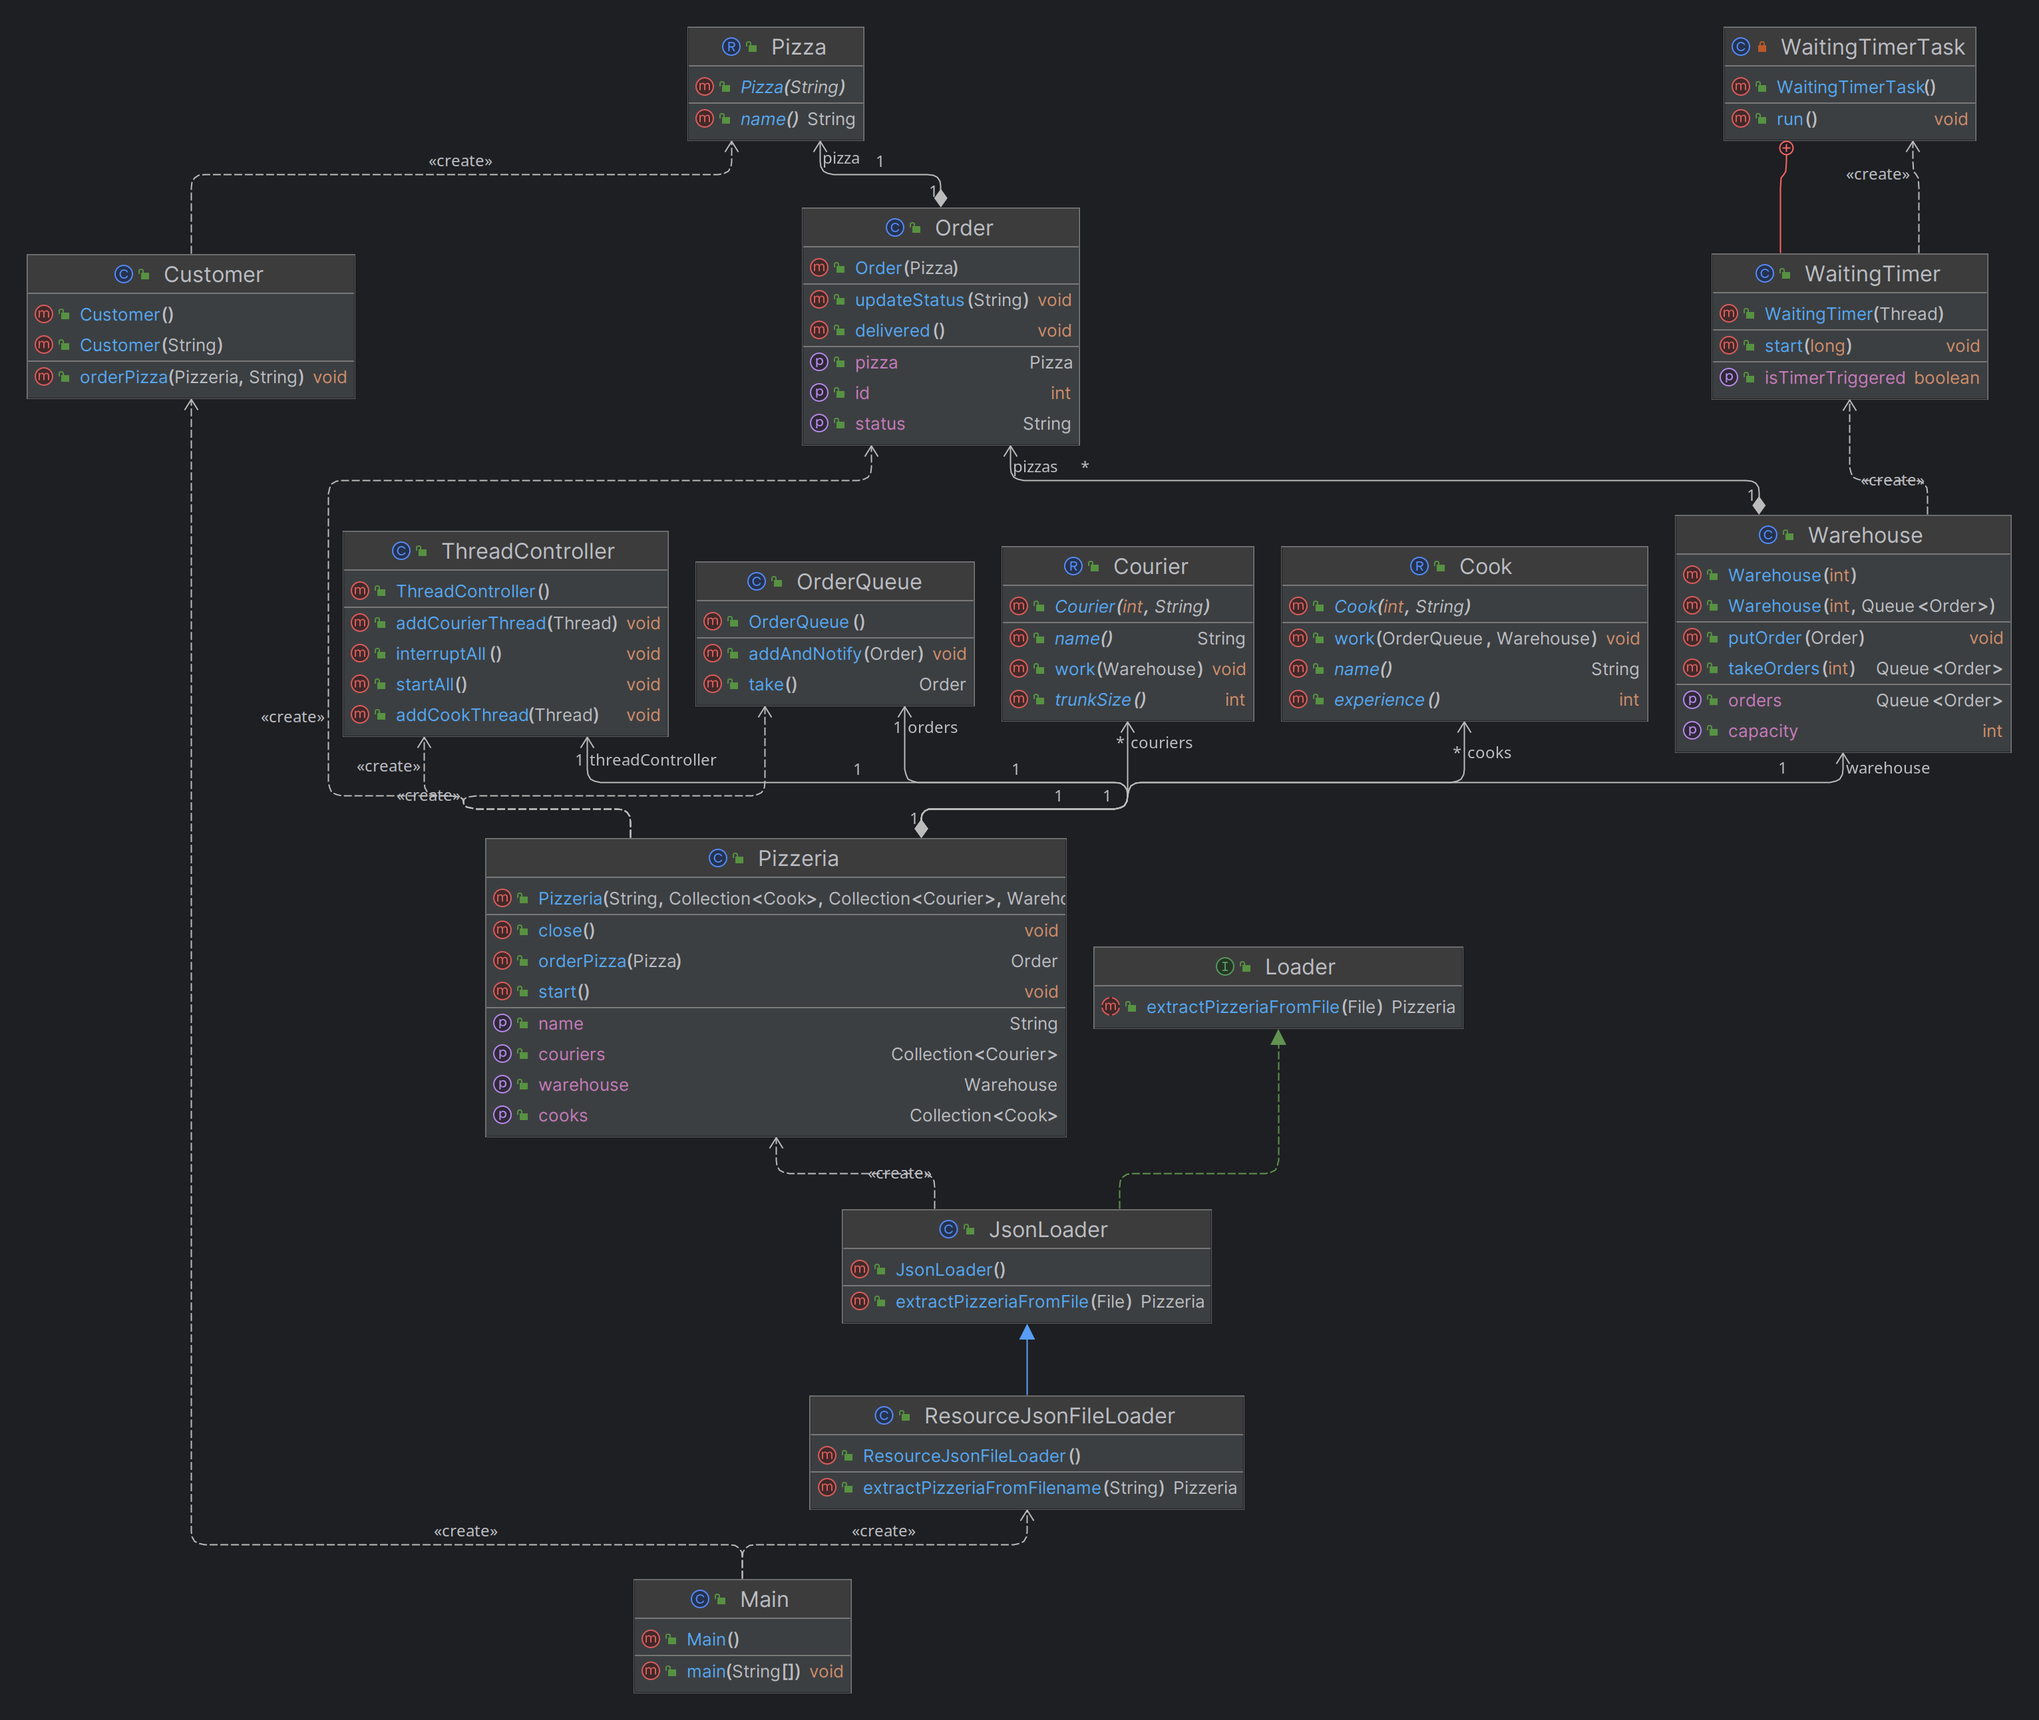
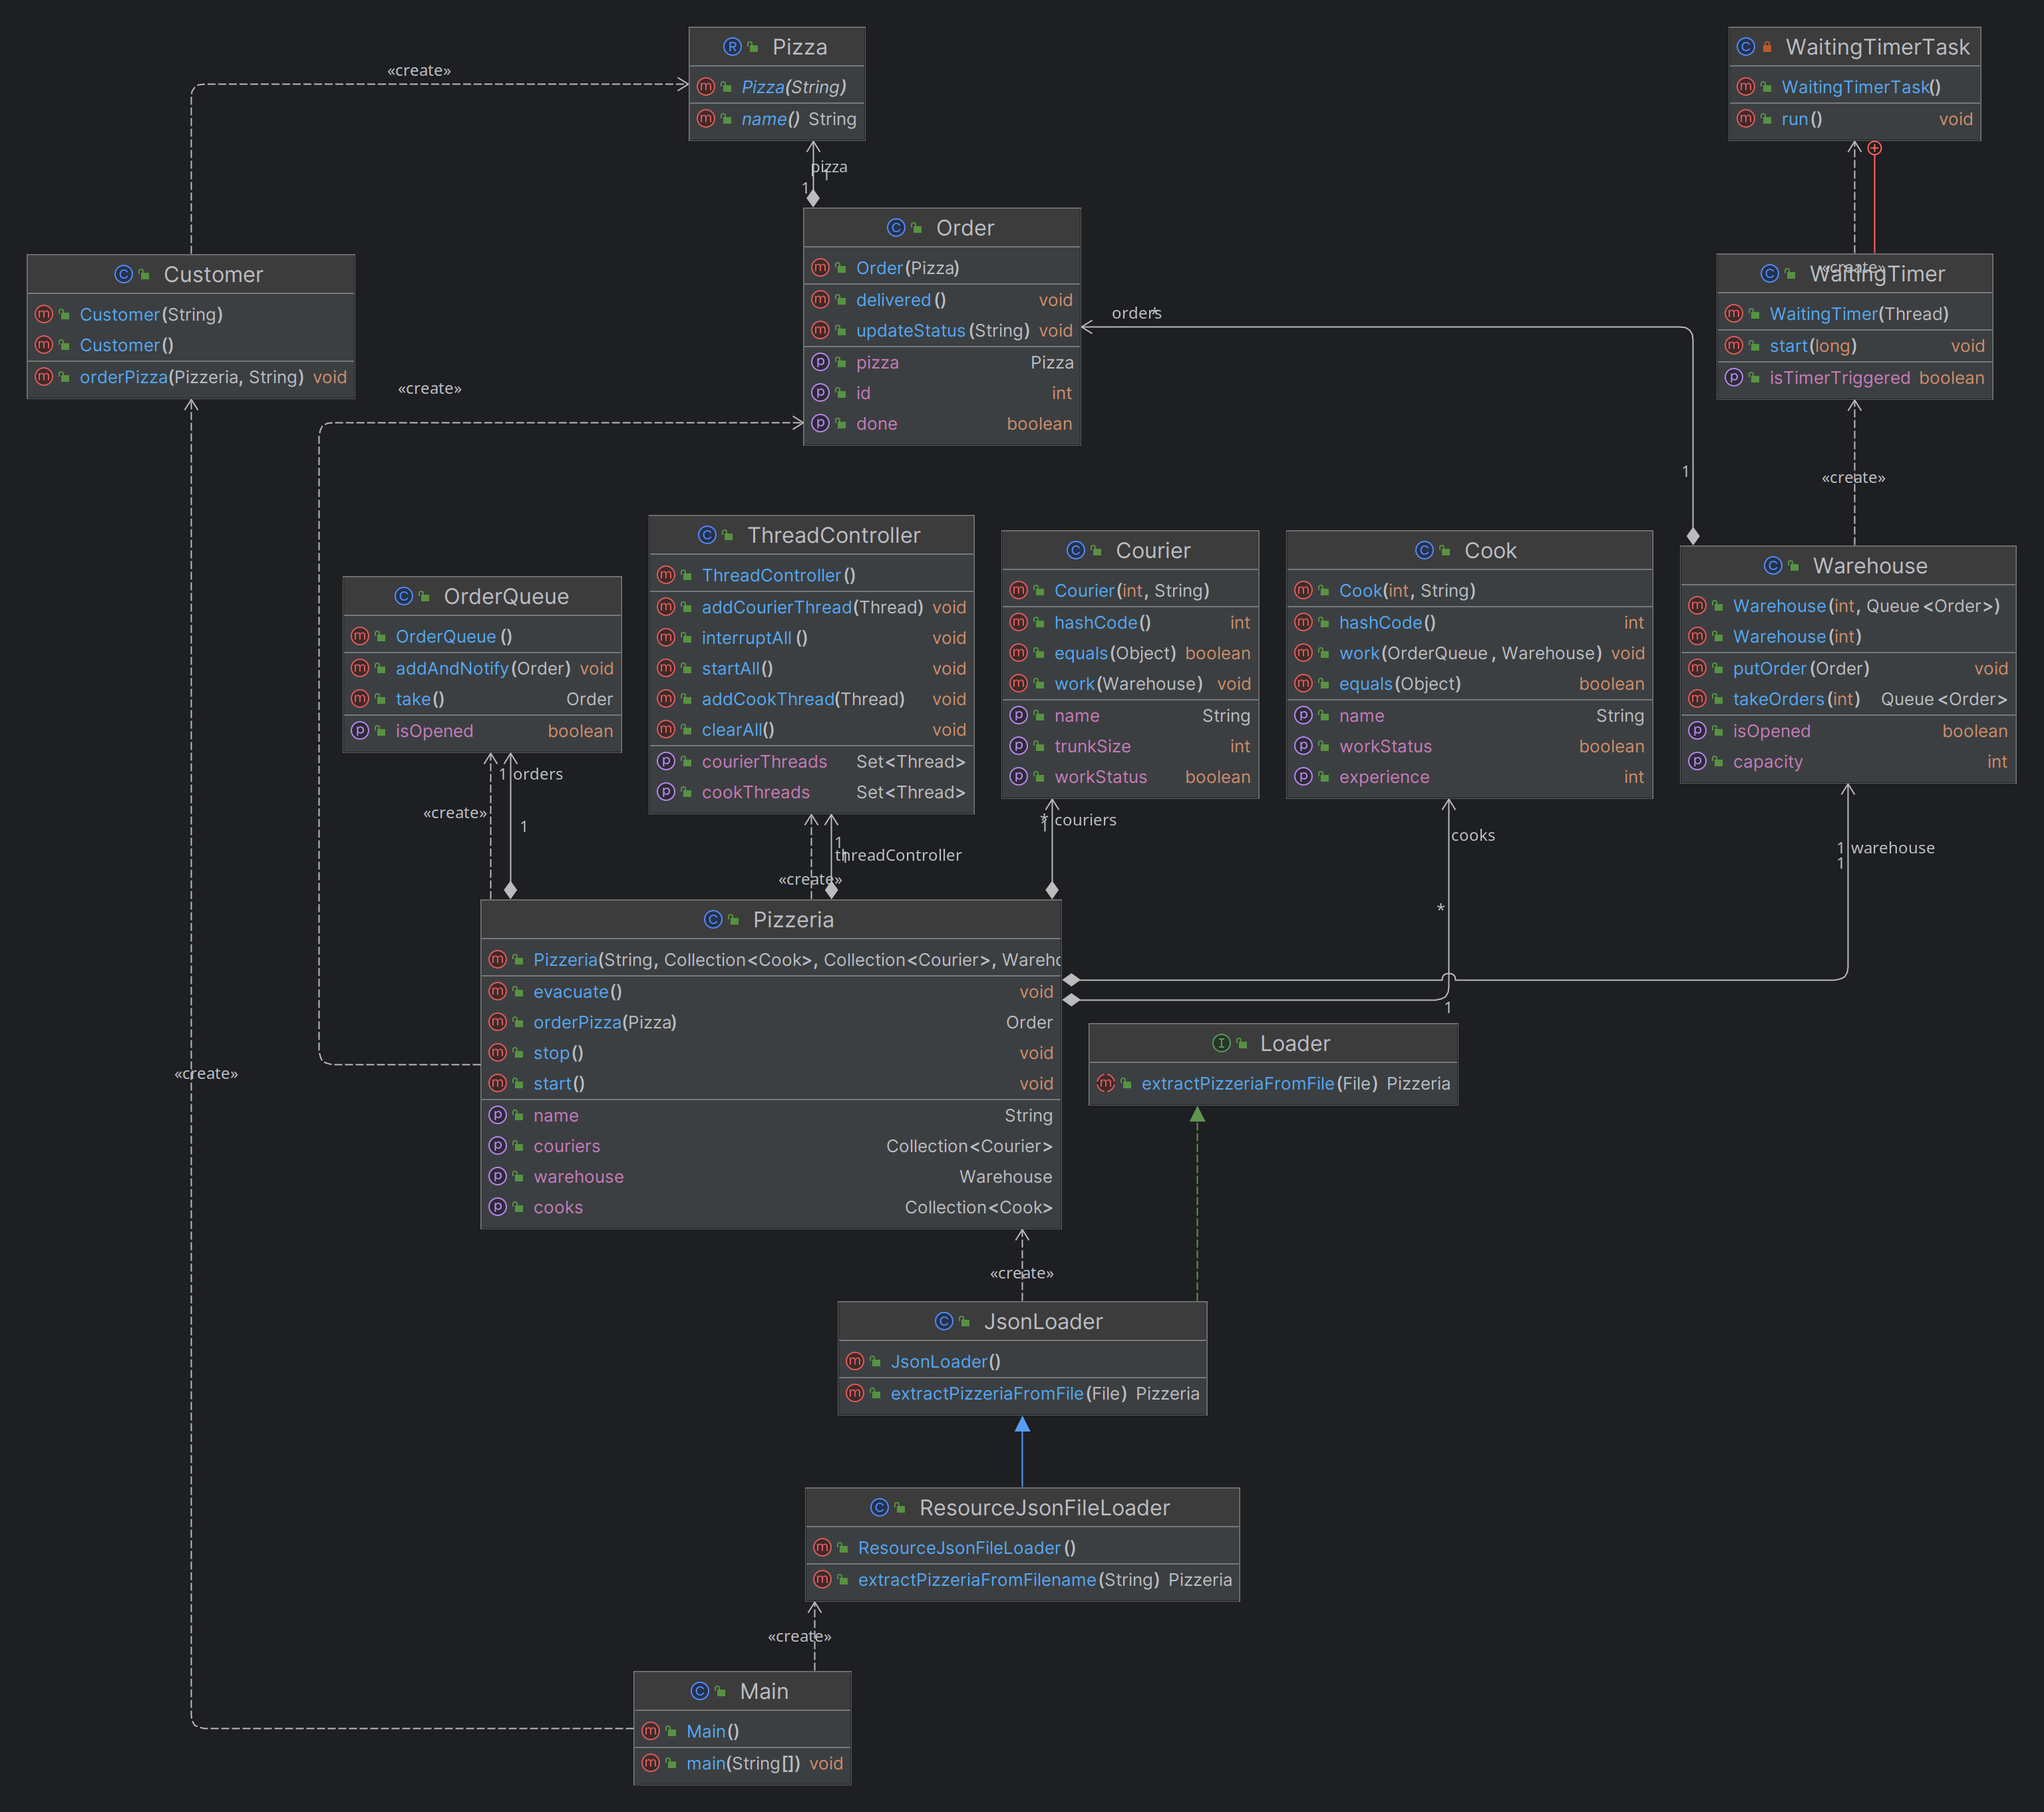
rename pizzeria close method to stop, so there is a pair of same-type named methods start-stop; update uml diagram

diff --git a/Task_2_2_1/src/main/java/ru/nsu/fit/oop/melnikov/Main.java b/Task_2_2_1/src/main/java/ru/nsu/fit/oop/melnikov/Main.java
@@ -81,7 +81,7 @@ public class Main {
         case "stop", "close" -> {
           if (closeThread.get().isEmpty()) {
             closeThread.set(Optional.of(new Thread(() -> {
-              pizzeria.close();
+              pizzeria.stop();
               closeThread.set(Optional.empty());
               customerThreads.clear();
             })));

diff --git a/Task_2_2_1/src/main/java/ru/nsu/fit/oop/melnikov/pizzeria/Pizzeria.java b/Task_2_2_1/src/main/java/ru/nsu/fit/oop/melnikov/pizzeria/Pizzeria.java
@@ -108,7 +108,7 @@ public class Pizzeria {
    * Wait for all the cooks and couriers finishing their work and close a pizzeria. If pizzeria is
    * already closed does nothing.
    */
-  public void close() {
+  public void stop() {
     if (!workStatus) {
       return;
     }
